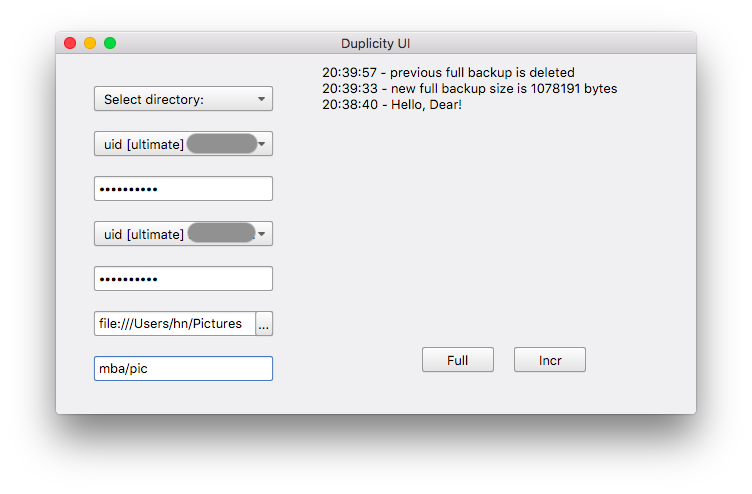
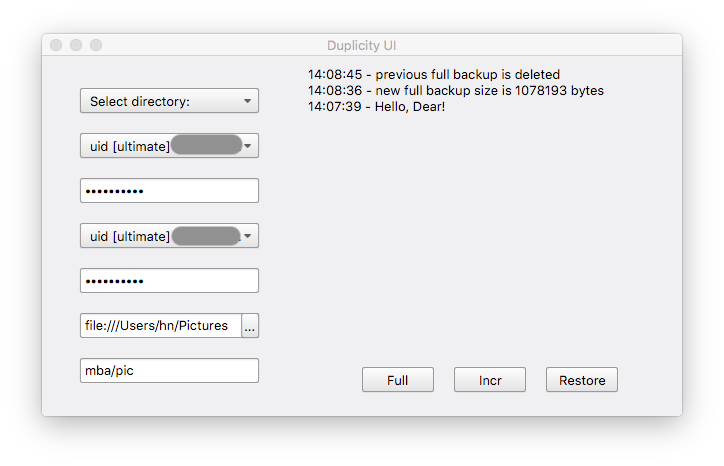
Add restore feature

Changed region(s): [[0.0608, 0.0601, 0.942, 0.9013], [0.6989, 0.721, 0.7597, 0.7511], [0.5773, 0.721, 0.6381, 0.7511]]

diff --git a/main.qml b/main.qml
@@ -145,7 +145,7 @@ Window {
         anchors.left: leftMain.right
         anchors.top: mainFrame.top
         width: mainFrame.width - leftMain.width
-        height: mainFrame.height * 0.7
+        height: mainFrame.height * 0.8
         color: "#f0f0f2"
 
         ScrollView {
@@ -207,6 +207,24 @@ Window {
                                     0, signKeyPass.length),
                                 selectDir.get(box0.currentIndex).text)
                     handler.performBackup(0)
+                }
+            }
+
+            Button {
+                id: restButton
+                text: "Restore"
+                onClicked: {
+                    handler.updateHandleFromQML(
+                                targetDir.getText(0,
+                                                  targetDir.length), sourceDir.getText(
+                                    0, sourceDir.length),
+                                encryptKey.get(box1.currentIndex).value,
+                                signKey.get(box2.currentIndex).value,
+                                encryptKeyPass.getText(0,
+                                                       encryptKeyPass.length), signKeyPass.getText(
+                                    0, signKeyPass.length),
+                                selectDir.get(box0.currentIndex).text)
+                    handler.performRestore()
                 }
             }
         }

diff --git a/handle.cpp b/handle.cpp
@@ -58,10 +58,31 @@ void handle::updateHandleFromQML(const QString &targetDir_,
   return;
 }
 
+void handle::performRestore() const {
+  // Do restore
+  try {
+    boost::process::child c(
+        p_duplicity, "restore", "--encrypt-key", encryptKey, "--sign-key",
+        signKey, backend + targetDir, sourceDir,
+        boost::process::std_out > boost::process::null,
+        boost::process::env["PASSPHRASE"] = passphrase,
+        boost::process::env["SIGN_PASSPHRASE"] = signPassphrase);
+    c.wait();
+  } catch (std::system_error &err) {
+    updateStatusText(getTime() + " - restore failed. Make sure duplicity, "
+                                 "PyDrive and GPG are installed");
+  }
+
+  updateStatusText(getTime() + " - " + QString::fromStdString(targetDir) +
+                   " has been restored to " +
+                   QString::fromStdString(sourceDir));
+
+  return;
+}
+
 // TODO: Asynchronous backup process for different folders feature
 void handle::performBackup(const bool &isFull) const {
   std::string argv;
-
   if (isFull) {
     argv = "full";
   } else {
@@ -74,16 +95,21 @@ void handle::performBackup(const bool &isFull) const {
   uint64_t backupSize = 0;
 
   // Do backup
-  boost::process::child c1(
-      p_duplicity, argv, "--encrypt-key", encryptKey, "--sign-key", signKey,
-      "--gpg-options", "--cipher-algo=AES256", "--allow-source-mismatch",
-      sourceDir, backend + targetDir, boost::process::std_out > is,
-      boost::process::env["PASSPHRASE"] = passphrase,
-      boost::process::env["SIGN_PASSPHRASE"] = signPassphrase);
-  c1.wait();
+  try {
+    boost::process::child c1(
+        p_duplicity, argv, "--encrypt-key", encryptKey, "--sign-key", signKey,
+        "--gpg-options", "--cipher-algo=AES256", "--allow-source-mismatch",
+        sourceDir, backend + targetDir, boost::process::std_out > is,
+        boost::process::env["PASSPHRASE"] = passphrase,
+        boost::process::env["SIGN_PASSPHRASE"] = signPassphrase);
+    c1.wait();
+  } catch (std::system_error &err) {
+    updateStatusText(
+        getTime() +
+        " - backup failed. Make sure duplicity, PyDrive and GPG are installed");
+  }
 
   std::string line;
-
   while (is && std::getline(is, line)) {
     if (line.empty()) {
       continue;
@@ -150,6 +176,7 @@ void handle::performBackup(const bool &isFull) const {
     } else { // Update full backup status to handle.json
       auto root = readFromJson(config_path);
       for (auto &i : root.get_child("pydrive")) {
+        // Modify corresponding status
         if (i.second.get<std::string>("targetDir") == targetDir) {
           i.second.put("lastFullDate", s_time);
           i.second.put("lastFullSize", backupSize);
@@ -159,6 +186,7 @@ void handle::performBackup(const bool &isFull) const {
           return;
         }
       }
+      // Add a new status
       auto r = writeToPT();
       r.put("lastFullDate", s_time);
       r.put("lastFullSize", backupSize);
@@ -222,12 +250,56 @@ void handle::showLastStatus(const QString sourceDir_) const {
       }
     }
   }
+
   return;
 }
 
 void handle::getDup() {
   p_duplicity = boost::process::search_path("duplicity");
   return;
+}
+
+std::vector<std::pair<std::string, std::string>> handle::get_keys() const {
+  std::vector<std::pair<std::string, std::string>> keys;
+
+  auto p_gpg = boost::process::search_path("gpg");
+
+  boost::process::ipstream is;
+  try {
+    boost::process::child c1(p_gpg, "--list-keys",
+                             boost::process::std_out > is);
+    c1.wait();
+  } catch (std::system_error &err) {
+    updateStatusText(getTime() + " - GPG keys are not detected");
+  }
+
+  std::string line, uid, key;
+
+  while (is && std::getline(is, line)) {
+    if (line.empty()) {
+      continue;
+    }
+    std::vector<std::string> tokens;
+    std::stringstream ss(line);
+    std::string s;
+    while (getline(ss, s, ' ')) {
+      if (!s.empty()) {
+        tokens.push_back(s);
+      }
+    }
+    // Get GPG keys, show only uid to UI
+    if (tokens.size() == 1) {
+      key = tokens[0];
+    }
+    if (tokens[0] == "uid") {
+      uid = "uid";
+      for_each(tokens.begin() + 1, tokens.end(),
+               [&](auto &i) { uid += (" " + i); });
+      keys.emplace_back(uid, key);
+    }
+  }
+
+  return keys;
 }
 
 boost::property_tree::ptree handle::writeToPT() const {
@@ -274,51 +346,13 @@ void writeToJson(const boost::property_tree::ptree &root,
   return;
 }
 
-std::vector<std::pair<std::string, std::string>> get_keys() {
-  std::vector<std::pair<std::string, std::string>> keys;
-
-  auto p_gpg = boost::process::search_path("gpg");
-
-  boost::process::ipstream is;
-  boost::process::child c1(p_gpg, "--list-keys", boost::process::std_out > is);
-  c1.wait();
-
-  std::string line, uid, key;
-
-  while (is && std::getline(is, line)) {
-    if (line.empty()) {
-      continue;
-    }
-    std::vector<std::string> tokens;
-    std::stringstream ss(line);
-    std::string s;
-    while (getline(ss, s, ' ')) {
-      if (!s.empty()) {
-        tokens.push_back(s);
-      }
-    }
-
-    if (tokens.size() == 1) {
-      key = tokens[0];
-    }
-    if (tokens[0] == "uid") {
-      uid = "uid";
-      for_each(tokens.begin() + 1, tokens.end(),
-               [&](auto &i) { uid += (" " + i); });
-      keys.emplace_back(uid, key);
-    }
-  }
-
-  return keys;
-}
-
-QString getTime() {
+QString getTime() noexcept {
   boost::posix_time::ptime t(boost::posix_time::second_clock::local_time());
   auto s = boost::posix_time::to_iso_extended_string(t).substr(11, 8);
   return QString::fromStdString(s);
 }
 
-std::string encode64(const std::string &pass) {
+std::string encode64(const std::string &pass) noexcept {
   std::string res;
   CryptoPP::Base64Encoder encoder;
   CryptoPP::byte *decoded = (CryptoPP::byte *)pass.c_str();
@@ -332,7 +366,7 @@ std::string encode64(const std::string &pass) {
   return res;
 }
 
-std::string decode64(const std::string &encoded) {
+std::string decode64(const std::string &encoded) noexcept {
   std::string decoded;
   CryptoPP::Base64Decoder decoder;
   decoder.Put((CryptoPP::byte *)encoded.data(), encoded.size());

diff --git a/handle.hpp b/handle.hpp
@@ -38,14 +38,20 @@ public:
                       const QString &passphrase_,
                       const QString &signPassphrase_, const QString &dir_);
 
+  // Do restore
+  Q_INVOKABLE void performRestore() const;
+
   // Do backup
   Q_INVOKABLE void performBackup(const bool &isFull) const;
 
   // Show status from handle.json
-  Q_INVOKABLE void showLastStatus(QString sourceDir_) const;
+  Q_INVOKABLE void showLastStatus(const QString sourceDir_) const;
 
   // Set Duplicity path
   void getDup();
+
+  // Read system GPG keys
+  std::vector<std::pair<std::string, std::string>> get_keys() const;
 
   boost::property_tree::ptree writeToPT() const;
 
@@ -98,16 +104,13 @@ readFromJson(const boost::filesystem::path &config_path);
 void writeToJson(const boost::property_tree::ptree &root,
                  const boost::filesystem::path &config_path);
 
-// Read system GPG keys
-std::vector<std::pair<std::string, std::string>> get_keys();
-
 // Get local time for status text update
-QString getTime();
+QString getTime() noexcept;
 
 // Encode string to base64 string
-std::string encode64(const std::string &pass);
+std::string encode64(const std::string &pass) noexcept;
 
 // Decode base64 string to string
-std::string decode64(const std::string &pass);
+std::string decode64(const std::string &pass) noexcept;
 
 #endif // HANDLE_HPP

diff --git a/main.cpp b/main.cpp
@@ -32,7 +32,7 @@ int main(int argc, char *argv[]) {
 
   pydriveHandle.updateStatusText(getTime() + " - " + QString("Hello, Dear!"));
 
-  auto keys = get_keys();
+  auto keys = pydriveHandle.get_keys();
   for (auto &i : keys) {
     pydriveHandle.updateKeys(QString::fromStdString(i.first),
                              QString::fromStdString(i.second));
@@ -54,7 +54,8 @@ int main(int argc, char *argv[]) {
 
     pydriveHandle.updateStatusText(
         getTime() + " - " +
-        QString("an incremental backup can be performed on Select Directory"));
+        QString("use Select Directory box to perform a backup or restore "
+                "operation"));
   }
 
   return app.exec();

diff --git a/README.md b/README.md
@@ -6,9 +6,15 @@ Duplicity-UI is a small UI application with less than 1MB size based on Qt Quick
 
 The program will store input information to a **handle.json** file in the current working directory for later use so you don't need to input once again. Because the information is stored in plain text without encryption, you may **NOT** want to use your current gpg keys for encryption and signing, even though GPG key's passphrase is encoded before writing to file.
 
-Whenever a full backup is performed, all backup files before this full backup will be deleted. Multiple folders are supported and you can use **Select directory:** box to show the corresponding last backup status.
+Whenever a full backup is performed, all backup files before this full backup will be deleted. Multiple folders are supported and you can use **Select directory** box to show the corresponding last backup status and do incremental backup or backup restore operations.
 
-This program is only tested on macOS 10.13.4 with [LLVM](https://llvm.org/) 6.0, [Boost](https://www.boost.org/) 1.67, [Qt](https://www.qt.io/) 5.10.1, [Crypto++](https://www.cryptopp.com/) 7.0.0, [duplicity](http://duplicity.nongnu.org/) 0.7.17 and [PyDrive](https://github.com/gsuitedevs/PyDrive) 1.2.1 and depends on Crypto++, Boost and Qt libraries only. It should work on WINDOWS as well but not tested.
+This program is only tested on macOS 10.13.4 with [GPG](https://www.gnupg.org/) 2.2.6, [duplicity](http://duplicity.nongnu.org/) 0.7.17 and [PyDrive](https://github.com/gsuitedevs/PyDrive) 1.2.1 and depends on Crypto++, Boost and Qt libraries only. It should work on WINDOWS as well but not tested.
+
+## Dependencies
+
+* [Boost](https://www.boost.org/) 1.67
+* [Qt](https://www.qt.io/) 5.10.1
+* [Crypto++](https://www.cryptopp.com/) 7.0.0
 
 ## TODO: Asynchronous backup process for different folders
 
@@ -17,17 +23,21 @@ This program is only tested on macOS 10.13.4 with [LLVM](https://llvm.org/) 6.0,
 ![start](img/start.png "start page")
 ![full_ing](img/full_ing.png "full backup is being performed")
 ![full_done](img/full_done.png "full backup is done")
-![config](img/config.png "configuration file is reloaded")
-![last_status](img/last_status.png "show last backup status")
+![laststatus](img/laststatus.png "show last backup status")
 ![incr_done](img/incr_done.png "incremental backup is done")
+![restore_done](img/restore_done.png "backup restore is done")
 
 ## FAQ
 
-1. **What does "Class FIFinderSyncExtensionHost is implemented in both /System/Library/PrivateFrameworks/FinderKit.framework/Versions/A/FinderKit (0x7fffb4de2c90) and /System/Library/PrivateFrameworks/FileProvider.framework/OverrideBundles/FinderSyncCollaborationFileProviderOverride.bundle/Contents/MacOS/FinderSyncCollaborationFileProviderOverride (0x113dedcd8). One of the two will be used. Which one is undefined." mean?**
+**Restore destination directory already exists. Will not overwrite.**
+
+There is already a folder with the same name in the target directory. Delete or rename that folder.
+
+**What does "Class FIFinderSyncExtensionHost is implemented in both /System/Library/PrivateFrameworks/FinderKit.framework/Versions/A/FinderKit (0x7fffb4de2c90) and /System/Library/PrivateFrameworks/FileProvider.framework/OverrideBundles/FinderSyncCollaborationFileProviderOverride.bundle/Contents/MacOS/FinderSyncCollaborationFileProviderOverride (0x113dedcd8). One of the two will be used. Which one is undefined." mean?**
 
 As far as I know it's a macOS High Sierra issue, but it doesn't impact on the application.
 
-2. **Why does not this application have a progress bar?**
+**Why does not this application have a progress bar?**
 
 Duplicity will do a dry run to have **--progress** enabled. It will waste a lot of time if the backup size is quite large.
 
